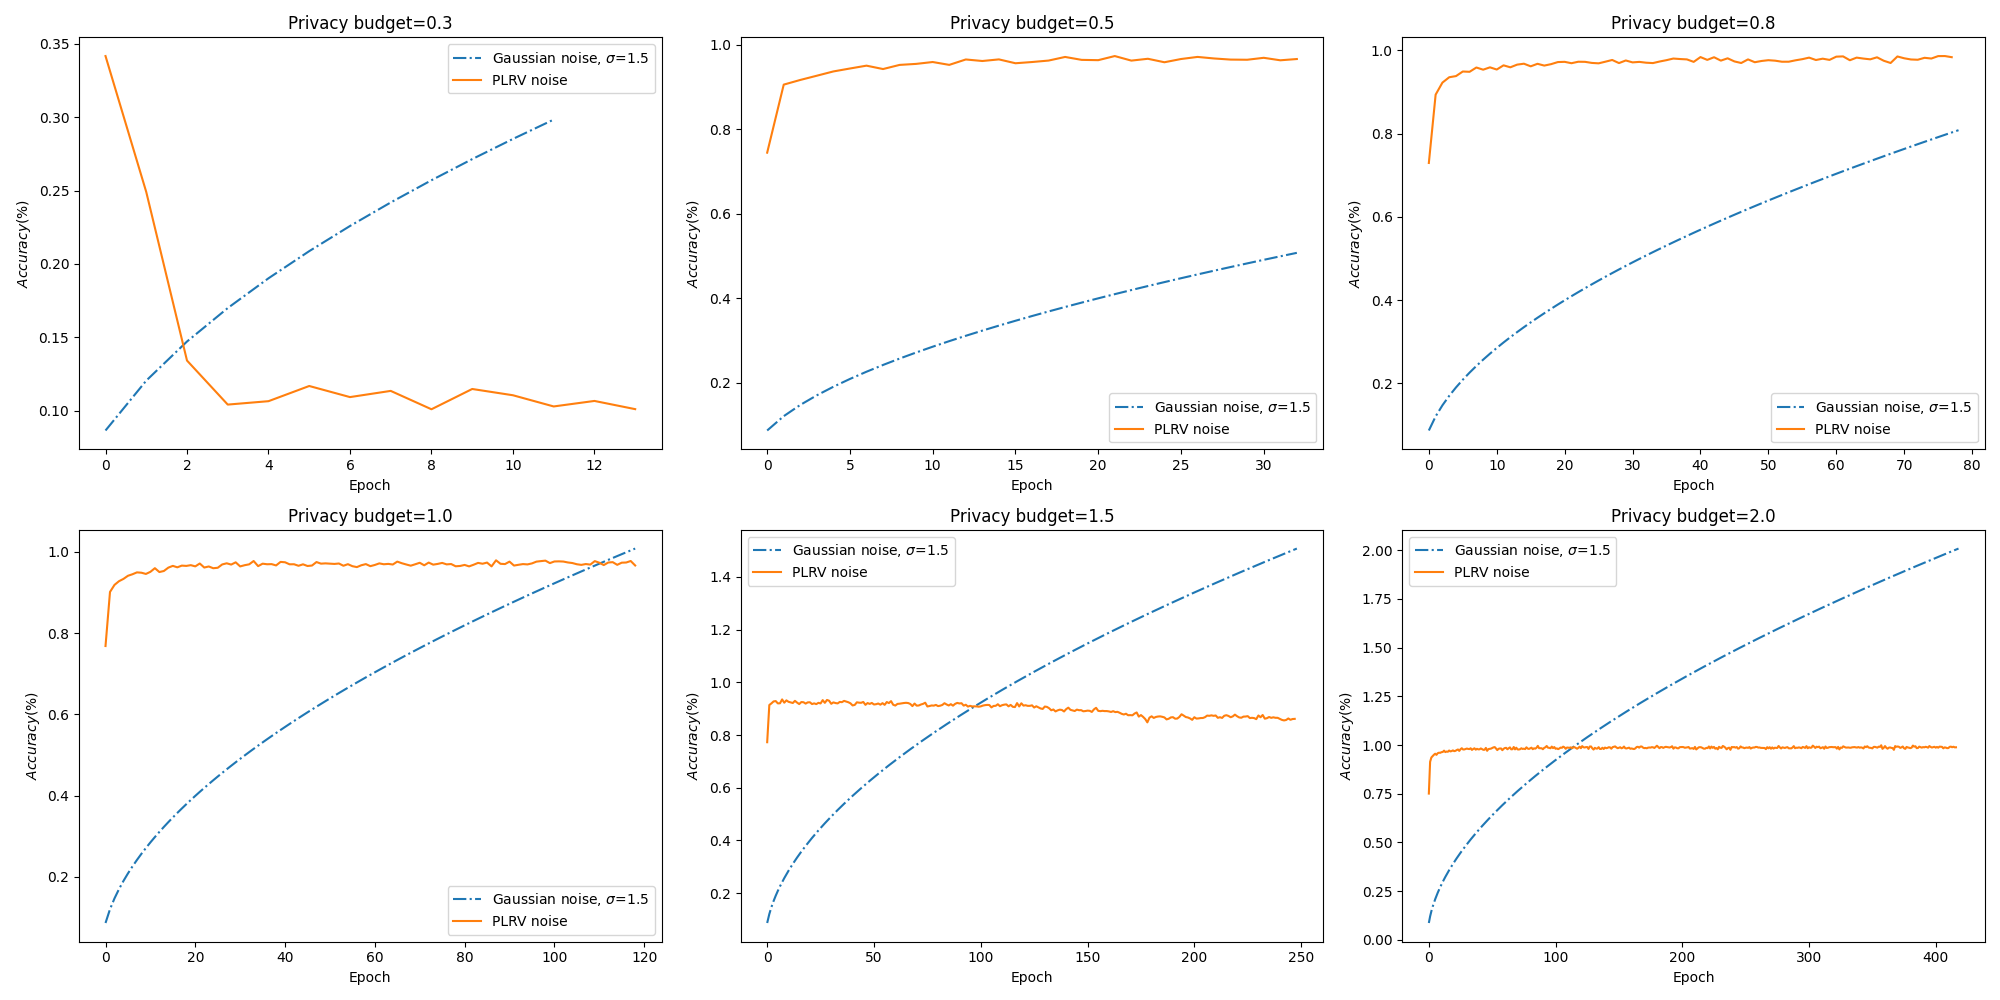
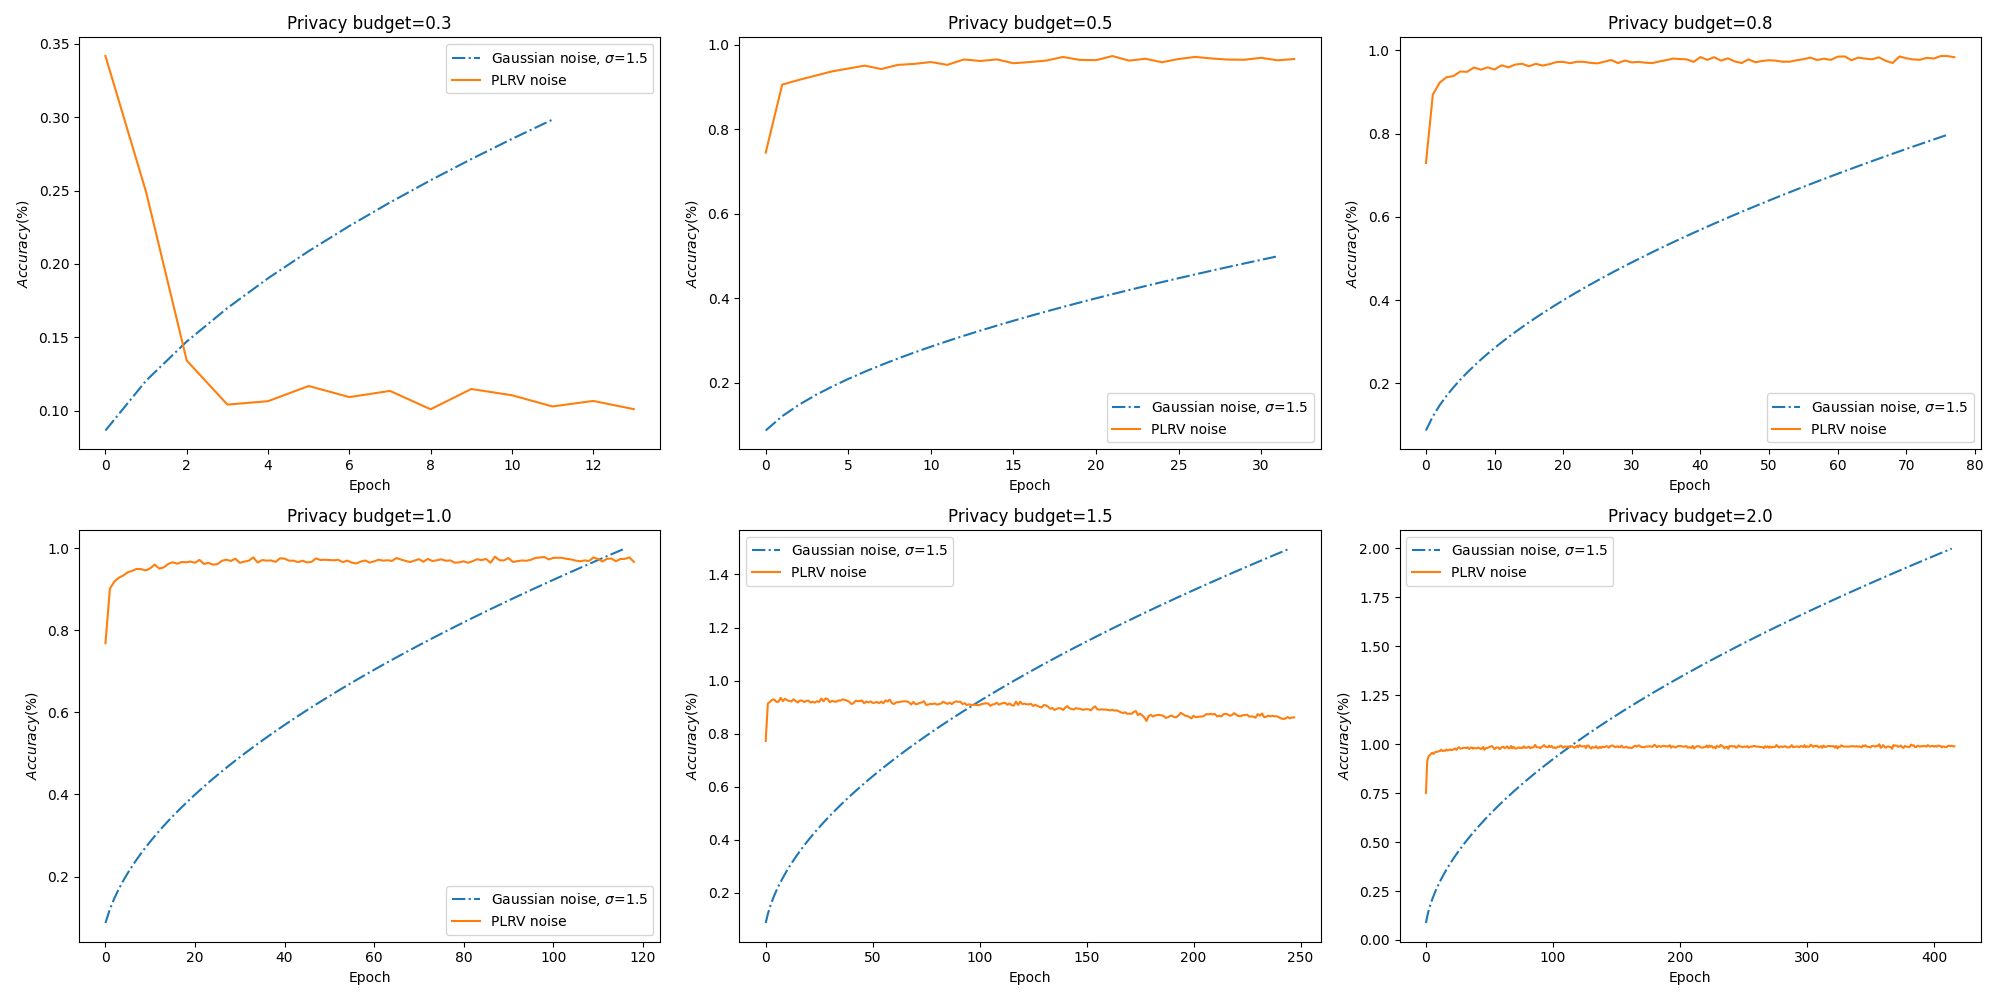
result

diff --git a/examples/my_example/result_jun_25/result_sigma_1.5/plotter.py b/examples/my_example/result_jun_25/result_sigma_1.5/plotter.py
@@ -193,7 +193,7 @@ def plot_accuracy_given_budget(epsilon, accuracy, budgets, legends, line_styles,
             val_key=val.keys()
             val_values=list(val.values())
 
-            values_under_budget = [eps for eps in val_values if round_down(eps,2) <= budget]
+            values_under_budget = [eps for eps in val_values if round_down(eps,2) < budget]
 
             acc_under_budget = list(accuracy[inner_key].values())
             acc_under_budget = acc_under_budget[0: len(values_under_budget)]
@@ -241,7 +241,7 @@ def plot_epsilon_given_budget(data, budgets, legends, line_styles, title="Epsilo
             val_key=val.keys()
             val_values=list(val.values())
 
-            values_under_budget = [eps for eps in val_values if round_down(eps,2) <= budget]
+            values_under_budget = [eps for eps in val_values if round_down(eps,2) < budget]
 
             data_under_budget.update({key: values_under_budget})
 
@@ -286,7 +286,7 @@ def plot_accuracy_vs_epsilon(epsilon, accuracy, budgets, legends, line_styles, n
             accuracy_sigma=accuracy[sigma]
 
             combined_data = { epsilon_sigma[key]: accuracy_sigma[key] for key in epsilon_sigma}
-            under_budget={eps: acc for eps, acc in combined_data.items() if round_down(eps,2) <= budget}
+            under_budget={eps: acc for eps, acc in combined_data.items() if round_down(eps,2) < budget}
             data_under_budget.update({sigma: under_budget })
 
             # for key, val in data_under_budget:
